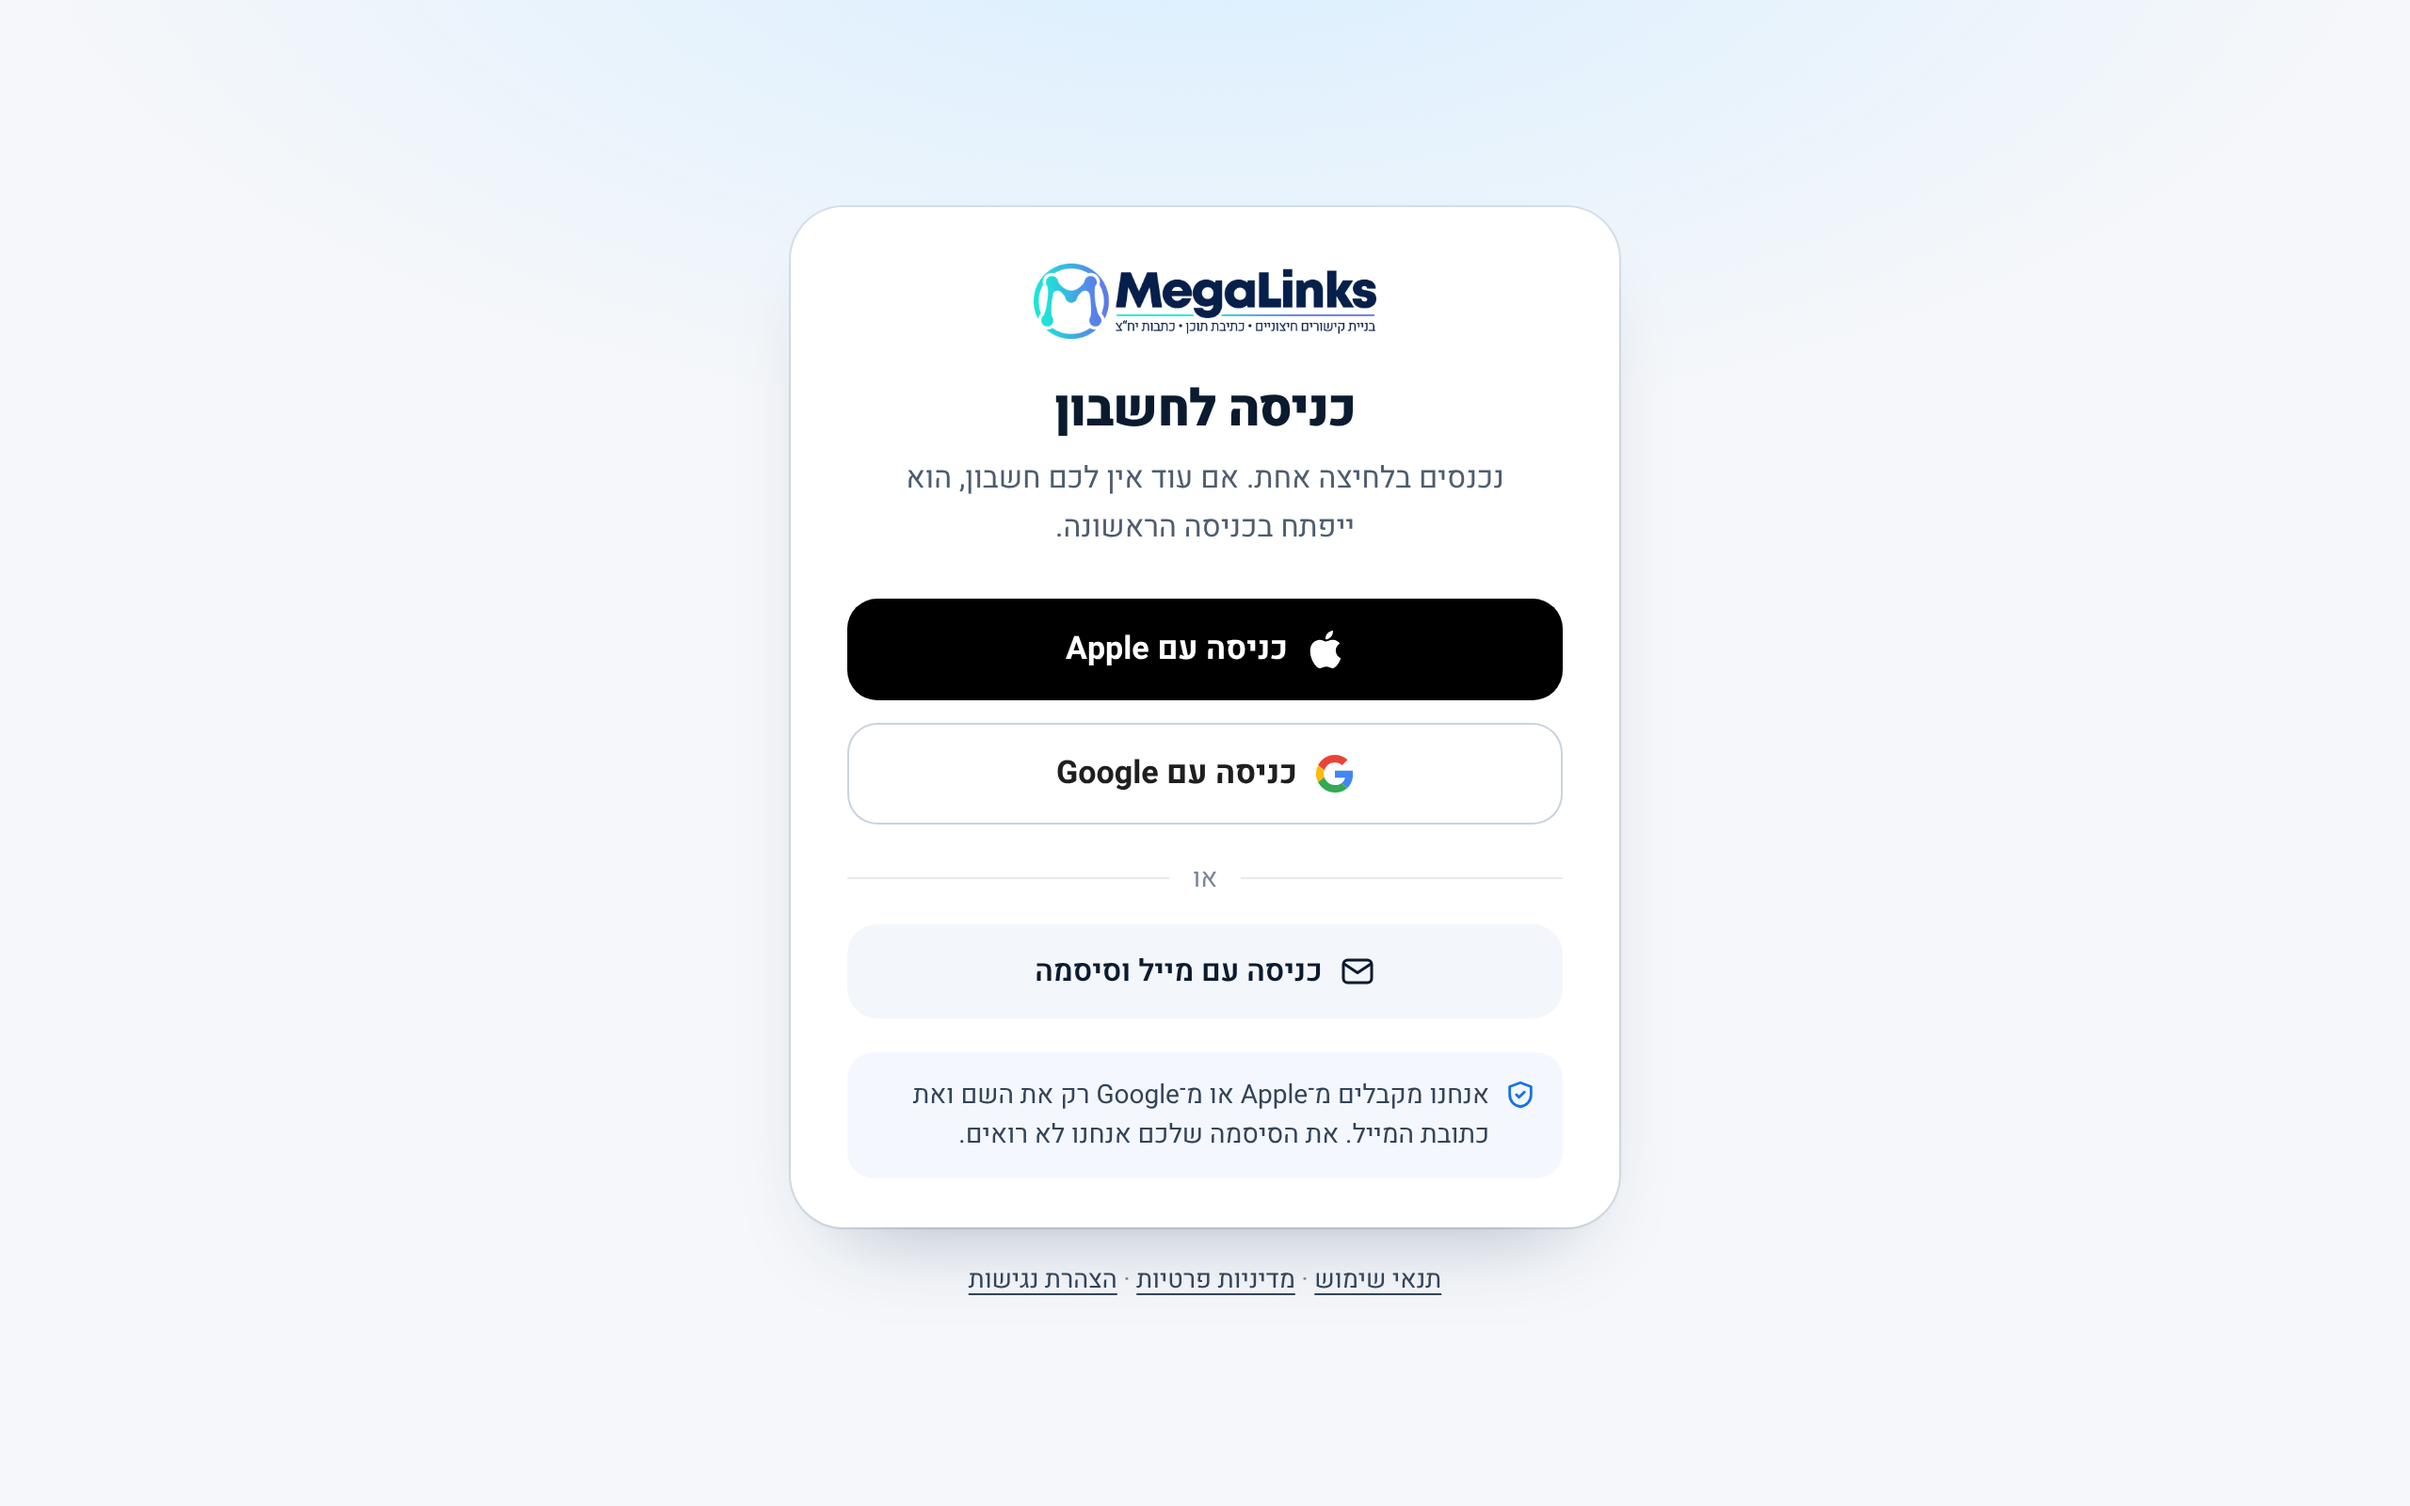
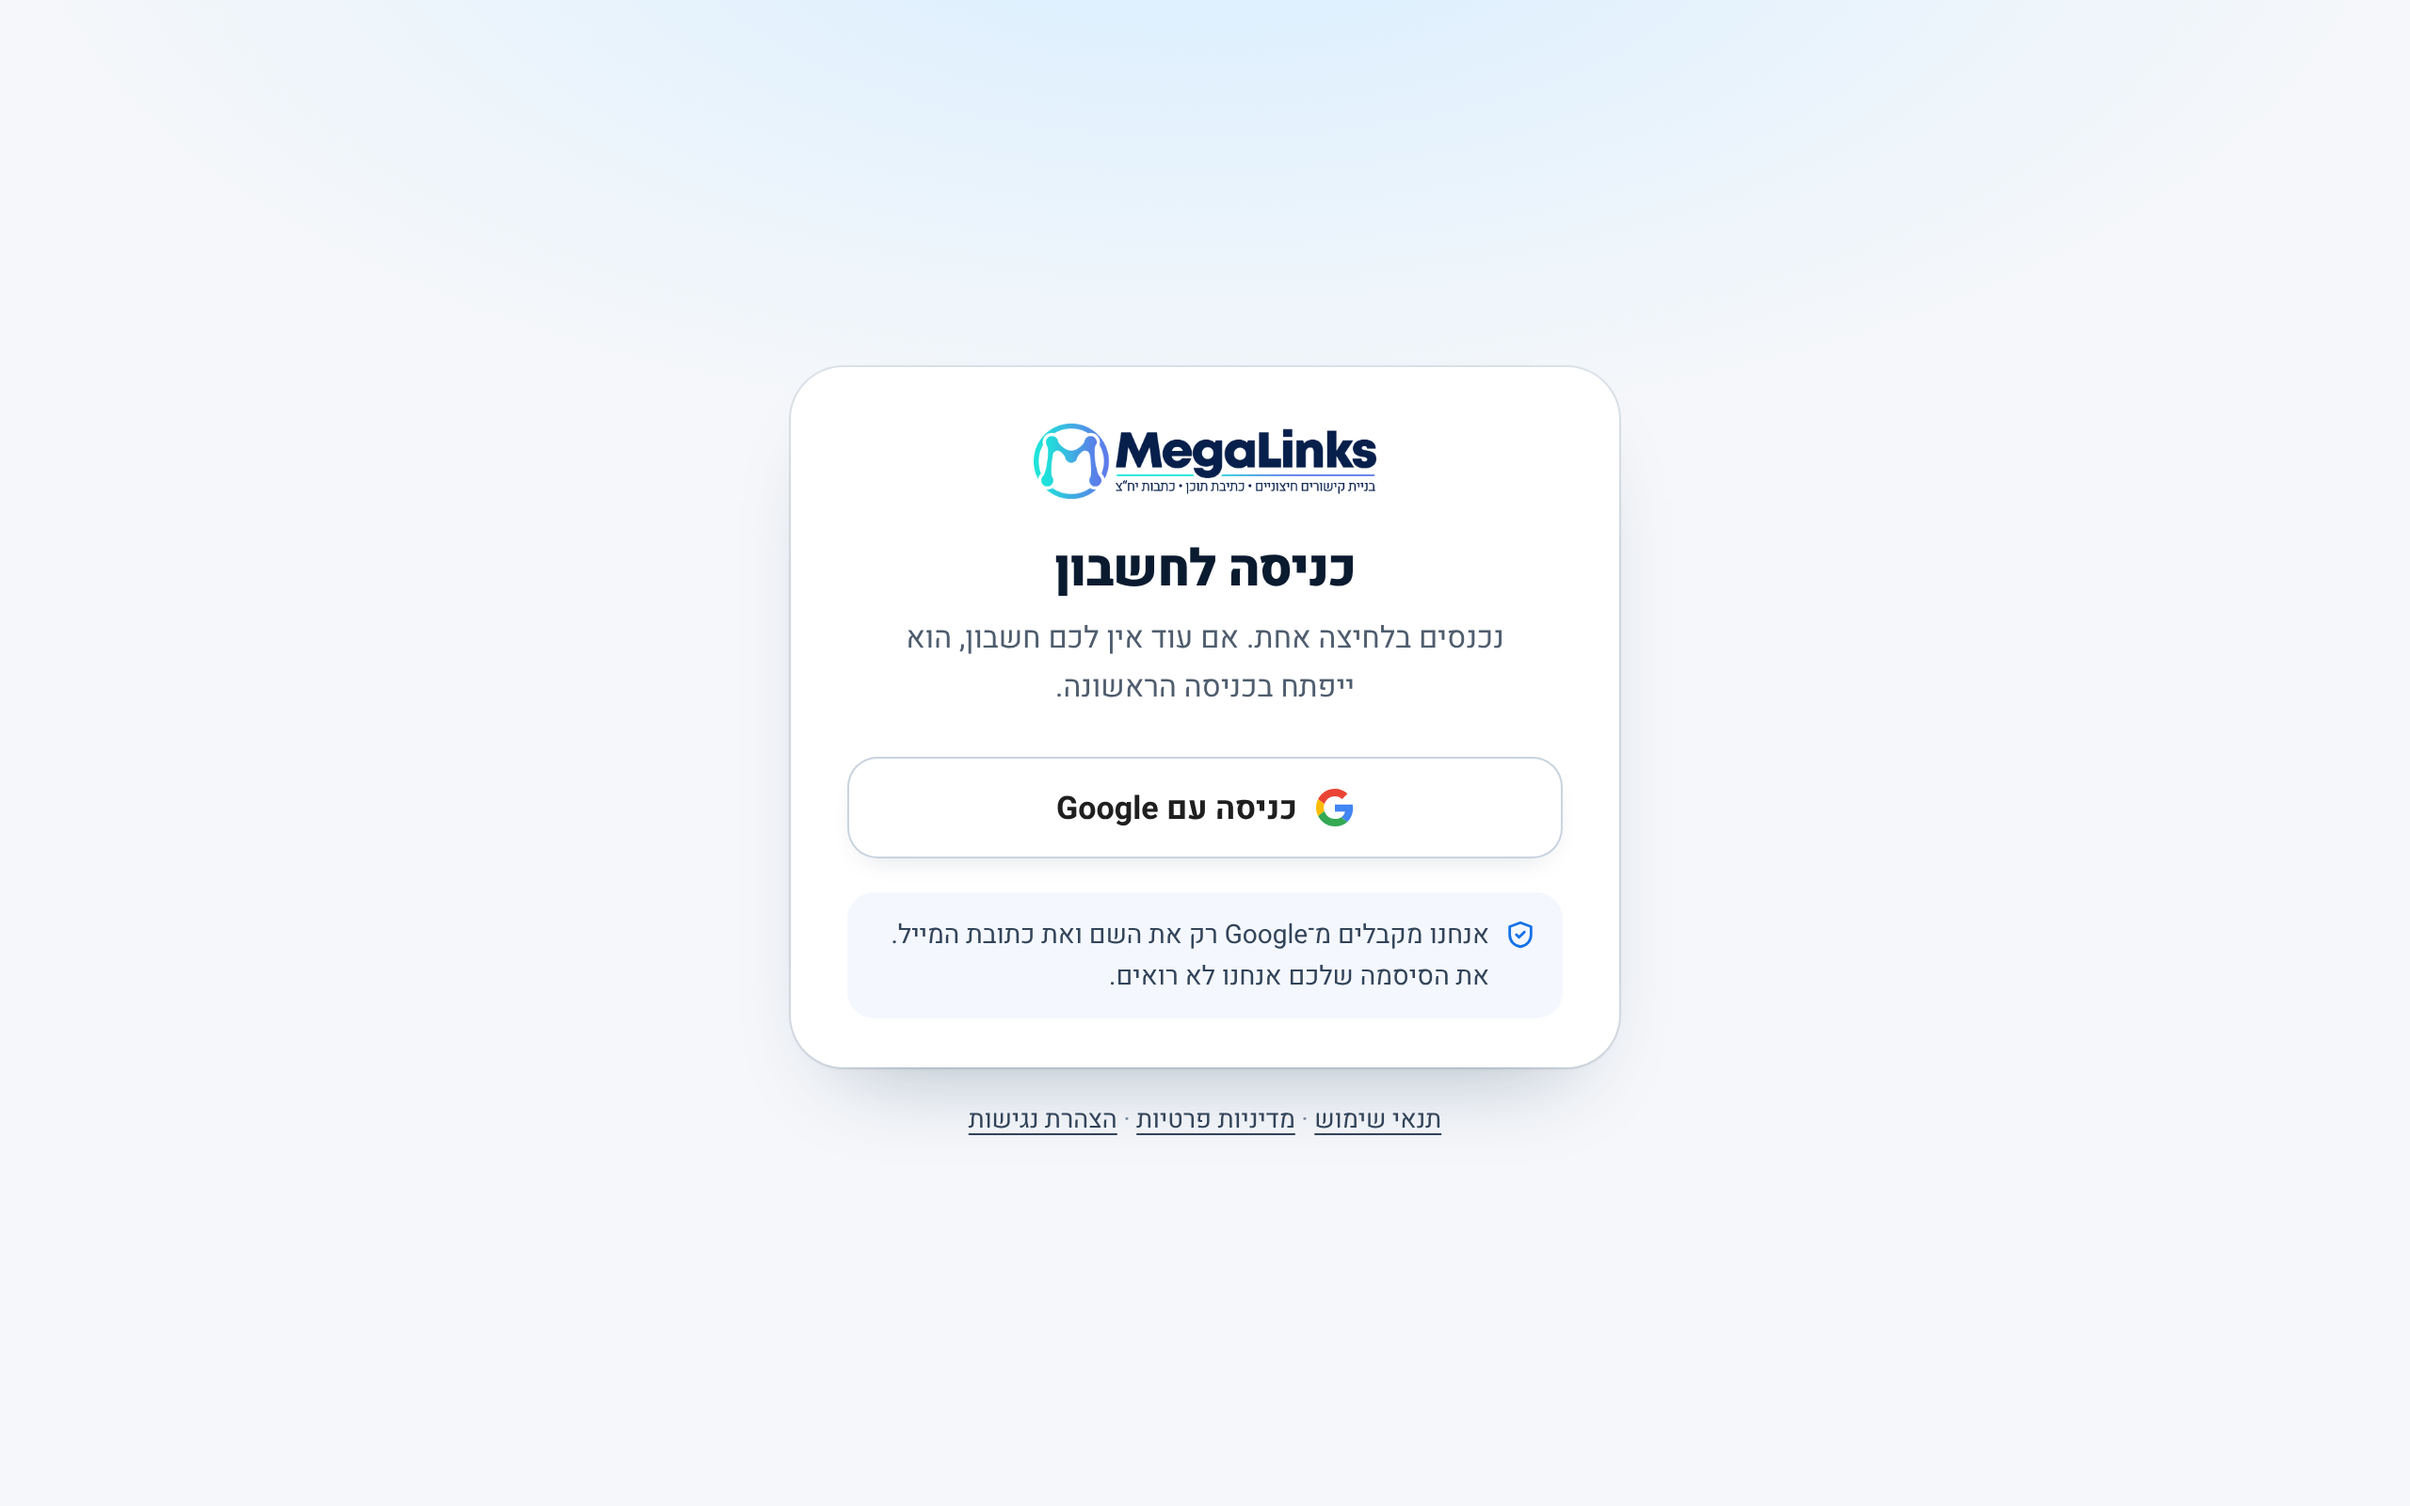
Login mockup: Google only, per the owner's decisions; notes with the owner's answers
Claude-Session: https://claude.ai/code/session_01Sap3HApvqdgE7fnyatFJMA

diff --git a/design/login-screen/mockup.html b/design/login-screen/mockup.html
@@ -20,7 +20,7 @@ h1{margin:0;text-align:center;font-size:27px;font-weight:850;letter-spacing:-.02
 .btn:focus-visible,.check input:focus-visible,a:focus-visible{outline:3px solid #7fb4f5;outline-offset:3px}
 .btn svg{flex:none}
 .apple{background:#000;color:#fff}
-.google{background:#fff;color:#1f1f1f;box-shadow:inset 0 0 0 1px #c9d3df}
+.google{background:#fff;color:#1f1f1f;box-shadow:inset 0 0 0 1px #c9d3df,0 6px 16px -10px #0b285040}
 .or{display:flex;align-items:center;gap:12px;margin:18px 0 14px;font-size:14px;color:var(--faint)}.or::before,.or::after{content:"";flex:1;height:1px;background:var(--line)}
 .mail{background:#f3f6fa;color:var(--ink);min-height:50px;font-size:16px;font-weight:600}
 .safe{display:flex;gap:8px;align-items:flex-start;margin:18px 0 0;padding:12px 14px;border-radius:14px;background:#f4f8fe;font-size:14px;line-height:1.55;color:#33445a}
@@ -57,12 +57,9 @@ h1{margin:0;text-align:center;font-size:27px;font-weight:850;letter-spacing:-.02
  <h1>כניסה לחשבון</h1>
  <p class="sub">נכנסים בלחיצה אחת. אם עוד אין לכם חשבון, הוא ייפתח בכניסה הראשונה.</p>
  <div class="stack">
-  <button class="btn apple" type="button"><svg width="20" height="20" viewBox="0 0 24 24" fill="currentColor" aria-hidden="true"><path d="M12.152 6.896c-.948 0-2.415-1.078-3.96-1.04-2.04.027-3.91 1.183-4.961 3.014-2.117 3.675-.546 9.103 1.519 12.09 1.013 1.454 2.208 3.09 3.792 3.039 1.52-.065 2.09-.987 3.935-.987 1.831 0 2.35.987 3.96.948 1.637-.026 2.676-1.48 3.676-2.948 1.156-1.688 1.636-3.325 1.662-3.415-.039-.013-3.182-1.221-3.22-4.857-.026-3.04 2.48-4.494 2.597-4.559-1.429-2.09-3.623-2.324-4.39-2.376-2-.156-3.675 1.09-4.61 1.09zM15.53 3.83c.843-1.012 1.4-2.427 1.245-3.83-1.207.052-2.662.805-3.532 1.818-.78.896-1.454 2.338-1.273 3.714 1.338.104 2.715-.688 3.559-1.701"/></svg><span>כניסה עם <bdi>Apple</bdi></span></button>
   <button class="btn google" type="button"><svg width="20" height="20" viewBox="0 0 48 48" aria-hidden="true"><path fill="#EA4335" d="M24 9.5c3.54 0 6.71 1.22 9.21 3.6l6.85-6.85C35.9 2.38 30.47 0 24 0 14.62 0 6.51 5.38 2.56 13.22l7.98 6.19C12.43 13.72 17.74 9.5 24 9.5z"/><path fill="#4285F4" d="M46.98 24.55c0-1.57-.15-3.09-.38-4.55H24v9.02h12.94c-.58 2.96-2.26 5.48-4.78 7.18l7.73 6c4.51-4.18 7.09-10.36 7.09-17.65z"/><path fill="#FBBC05" d="M10.53 28.59c-.48-1.45-.76-2.99-.76-4.59s.27-3.14.76-4.59l-7.98-6.19C.92 16.46 0 20.12 0 24c0 3.88.92 7.54 2.56 10.78l7.97-6.19z"/><path fill="#34A853" d="M24 48c6.48 0 11.93-2.13 15.89-5.81l-7.73-6c-2.15 1.45-4.92 2.3-8.16 2.3-6.26 0-11.57-4.22-13.47-9.91l-7.98 6.19C6.51 42.62 14.62 48 24 48z"/></svg><span>כניסה עם <bdi>Google</bdi></span></button>
  </div>
- <div class="or">או</div>
- <button class="btn mail" type="button"><svg width="18" height="18" viewBox="0 0 24 24" fill="none" stroke="currentColor" stroke-width="2" stroke-linecap="round" stroke-linejoin="round" aria-hidden="true"><rect x="2" y="4" width="20" height="16" rx="3"/><path d="m3 7 9 6 9-6"/></svg>כניסה עם מייל וסיסמה</button>
- <p class="safe"><svg width="17" height="17" viewBox="0 0 24 24" fill="none" stroke="currentColor" stroke-width="2" stroke-linecap="round" stroke-linejoin="round" aria-hidden="true"><path d="M12 3 4 6v6c0 5 3.4 8.3 8 9 4.6-.7 8-4 8-9V6z"/><path d="m9 12 2 2 4-4"/></svg><span>אנחנו מקבלים מ־<bdi>Apple</bdi> או מ־<bdi>Google</bdi> רק את השם ואת כתובת המייל. את הסיסמה שלכם אנחנו לא רואים.</span></p>
+ <p class="safe"><svg width="17" height="17" viewBox="0 0 24 24" fill="none" stroke="currentColor" stroke-width="2" stroke-linecap="round" stroke-linejoin="round" aria-hidden="true"><path d="M12 3 4 6v6c0 5 3.4 8.3 8 9 4.6-.7 8-4 8-9V6z"/><path d="m9 12 2 2 4-4"/></svg><span>אנחנו מקבלים מ־<bdi>Google</bdi> רק את השם ואת כתובת המייל. את הסיסמה שלכם אנחנו לא רואים.</span></p>
 </main>
 
 <main class="card" id="terms" hidden>

diff --git a/NOTES.md b/NOTES.md
@@ -1204,3 +1204,6 @@ Each agent worked in its own git worktree (note: the worktrees were created from
 - **Unapplied card payment:** alert only, as built (no automatic credit). The owner expects payment links to close after payment, so this should be rare.
 - **Login:** start with Google only; Apple is dropped for now (it needs a paid developer account, a signed key and private-relay addresses). **Admins sign in only with Google.**
 - The owner asked for the remaining questions one at a time, each with a short plain explanation and a choice (approve or write a correction).
+- **Login answers (asked one at a time):** Google only (no email + password for now; add it later only if customers need it). Stay signed in: customer 30 days, admin 8 hours. When the terms change: ask for approval again (blocked until ticked; time and version saved; lawyer to confirm). Existing customers: see the approval screen once on their first Google sign-in and keep their account and orders.
+- **Mockup updated:** `design/login-screen/mockup.html` and the login images now show one button, "כניסה עם Google"; the Apple button and "כניסה עם מייל וסיסמה" were removed. `plan.md` still describes Apple and passwords: those parts are cancelled by the owner's answers above.
+- **Still open before building login:** whether Production's hosting allows public access with our own login (to be checked, not the owner's question); the owner supplies a Google Cloud project (OAuth client) and the final site address.
